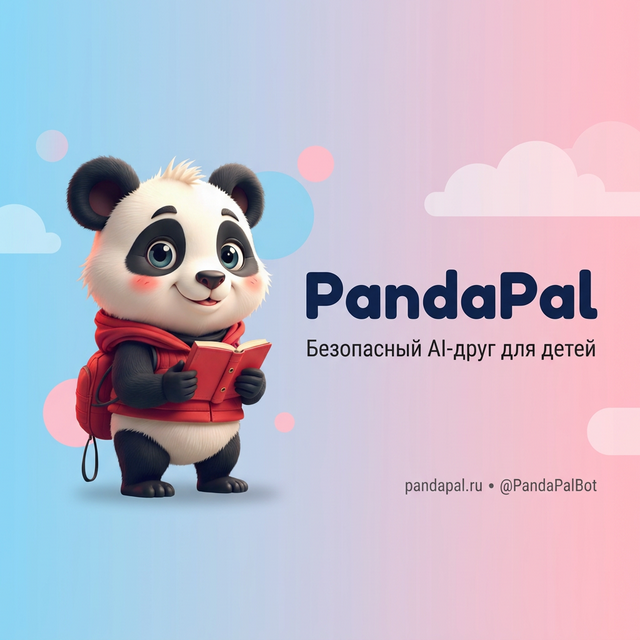
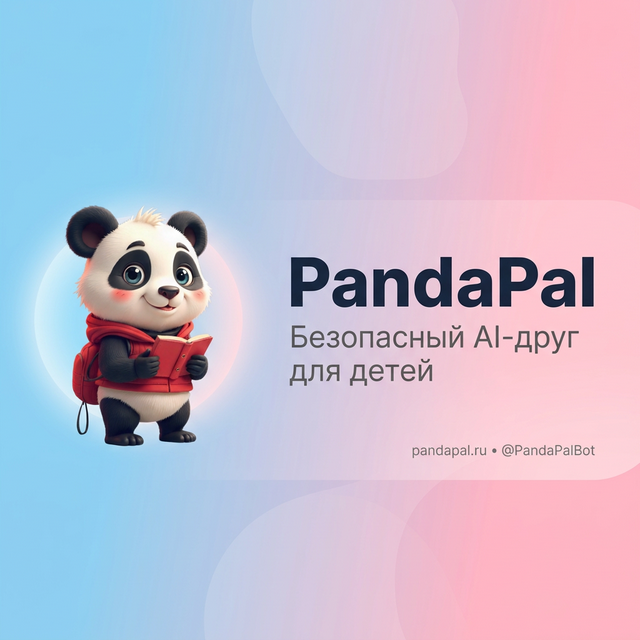
feat(seo): add landscape OG card and sitemap date automation
- Replace square OG image with landscape card using project logo
- Add scripts/update_sitemap_dates.py for automated lastmod updates
- Script updates both sitemap.xml lastmod and JSON-LD dateModified

diff --git a/scripts/update_sitemap_dates.py b/scripts/update_sitemap_dates.py
@@ -1,0 +1,52 @@
+#!/usr/bin/env python3
+"""
+Обновляет lastmod во всех URL в sitemap.xml и dateModified в JSON-LD блоках index.html.
+Запуск: python scripts/update_sitemap_dates.py [--date YYYY-MM-DD]
+По умолчанию использует сегодняшнюю дату.
+"""
+
+import re
+import sys
+from datetime import datetime, timezone
+from pathlib import Path
+
+
+def main() -> None:
+    root = Path(__file__).parent.parent
+    today = datetime.now(timezone.utc).strftime("%Y-%m-%d")
+
+    # Разрешаем передать дату аргументом
+    if len(sys.argv) > 2 and sys.argv[1] == "--date":
+        today = sys.argv[2]
+
+    # --- sitemap.xml ---
+    sitemap_path = root / "frontend" / "public" / "sitemap.xml"
+    if sitemap_path.exists():
+        content = sitemap_path.read_text(encoding="utf-8")
+        updated, count = re.subn(
+            r"<lastmod>\d{4}-\d{2}-\d{2}</lastmod>",
+            f"<lastmod>{today}</lastmod>",
+            content,
+        )
+        sitemap_path.write_text(updated, encoding="utf-8")
+        print(f"sitemap.xml: обновлено {count} lastmod -> {today}")
+    else:
+        print("sitemap.xml: не найден")
+
+    # --- index.html (JSON-LD dateModified) ---
+    index_path = root / "frontend" / "index.html"
+    if index_path.exists():
+        content = index_path.read_text(encoding="utf-8")
+        updated, count = re.subn(
+            r'"dateModified":\s*"\d{4}-\d{2}-\d{2}"',
+            f'"dateModified": "{today}"',
+            content,
+        )
+        index_path.write_text(updated, encoding="utf-8")
+        print(f"index.html: обновлено {count} dateModified -> {today}")
+    else:
+        print("index.html: не найден")
+
+
+if __name__ == "__main__":
+    main()
